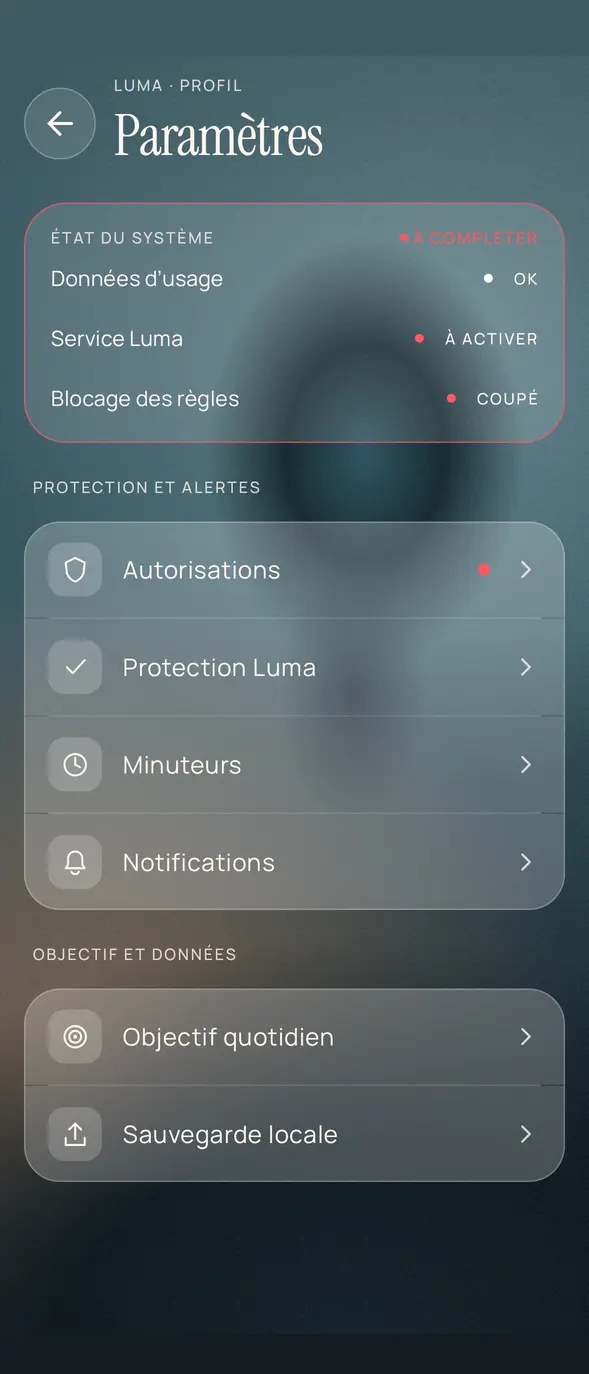
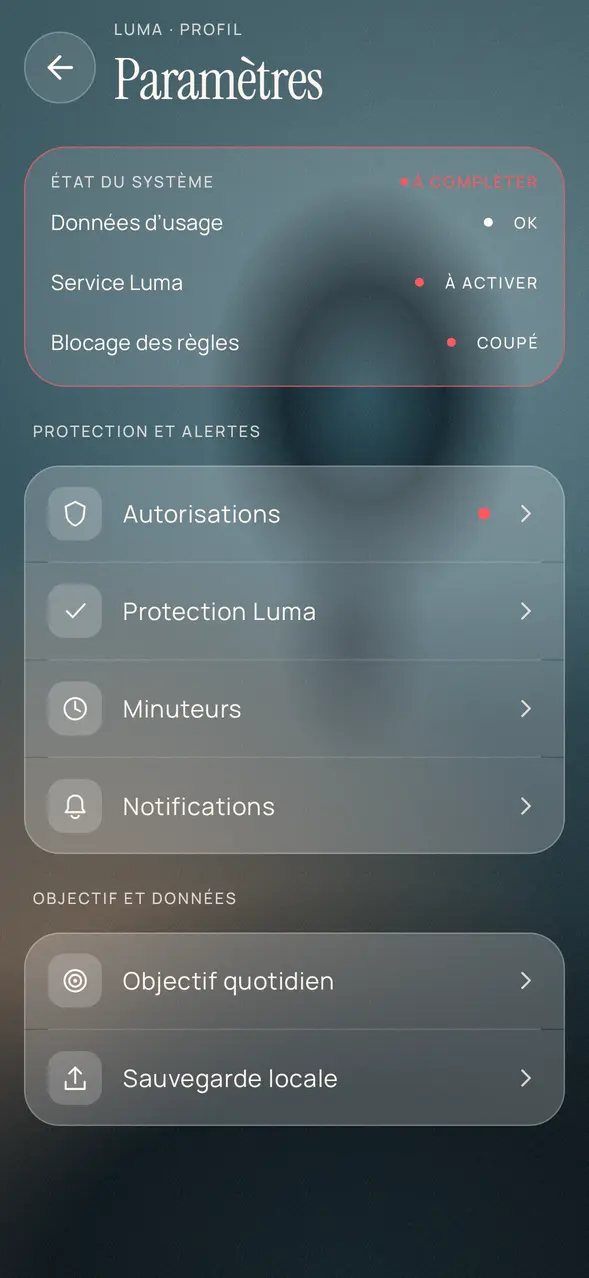
Retirer les bandes des captures et réduire l'arrondi de l'écran
Les coins de l'écran sont moins arrondis, ce qui laisse la date en haut
lisible sans ajouter de marge visible.

Claude-Session: https://claude.ai/code/session_01YMWM2Fj2J3vZqu72BWU4Gv

diff --git a/index.html b/index.html
@@ -56,7 +56,7 @@
             <path class="arc" d="M300 30 A270 270 0 1 1 30 300"/>
             <g class="spin"><circle class="dot" cx="300" cy="30" r="6"/></g>
           </svg>
-          <div class="phone"><img src="assets/img/aura-accueil-fr.webp" alt="Accueil de Luma en style Aura : 1 h 42 de temps d’écran aujourd’hui, 1 h 18 encore disponibles" width="589" height="1374" fetchpriority="high"></div>
+          <div class="phone"><img src="assets/img/aura-accueil-fr.webp" alt="Accueil de Luma en style Aura : 1 h 42 de temps d’écran aujourd’hui, 1 h 18 encore disponibles" width="589" height="1278" fetchpriority="high"></div>
           <div class="float glass f1" aria-hidden="true"><span class="label">Objectif</span><b>3 h par jour</b></div>
           <div class="float glass f2" aria-hidden="true"><span class="label">Série</span><b>12 jours</b></div>
           <div class="float glass f3" aria-hidden="true"><span class="label">Instagram</span><b>En pause · 9 s</b></div>
@@ -87,9 +87,9 @@
           </ol>
           <div class="sticky-phone">
             <div class="phone stack">
-              <img class="on" src="assets/img/accueil-aura-barre.webp" alt="Accueil : le temps restant sur l’objectif du jour" width="589" height="1374" loading="lazy">
-              <img src="assets/img/pause-friction-aura.webp" alt="Page de pause avec un compte à rebours de 9 secondes" width="589" height="1374" loading="lazy">
-              <img src="assets/img/pause-blocage-aura.webp" alt="Page de blocage : Instagram est en pause" width="589" height="1374" loading="lazy">
+              <img class="on" src="assets/img/accueil-aura-barre.webp" alt="Accueil : le temps restant sur l’objectif du jour" width="589" height="1278" loading="lazy">
+              <img src="assets/img/pause-friction-aura.webp" alt="Page de pause avec un compte à rebours de 9 secondes" width="589" height="1278" loading="lazy">
+              <img src="assets/img/pause-blocage-aura.webp" alt="Page de blocage : Instagram est en pause" width="589" height="1278" loading="lazy">
             </div>
           </div>
         </div>
@@ -118,7 +118,7 @@
           <p class="note">Le téléphone, les messages, l’appareil photo et les alarmes ne sont jamais bloqués.</p>
         </div>
         <div class="reveal">
-          <div class="phone"><img src="assets/img/aura-regles-fr.webp" alt="Liste des règles en style Aura : Soirée sans réseaux, de 20:00 à 23:00, avec sa frise de 24 heures" width="589" height="1374" loading="lazy"></div>
+          <div class="phone"><img src="assets/img/aura-regles-fr.webp" alt="Liste des règles en style Aura : Soirée sans réseaux, de 20:00 à 23:00, avec sa frise de 24 heures" width="589" height="1278" loading="lazy"></div>
         </div>
       </div>
     </section>
@@ -132,17 +132,17 @@
       </div>
       <div class="marquee" aria-label="Captures de l’application">
         <div class="marquee-track">
-          <div class="phone"><img src="assets/img/accueil-aura-barre.webp" alt="Accueil" width="589" height="1374" loading="lazy"></div>
-          <div class="phone"><img src="assets/img/aura-profil-fr.webp" alt="Profil" width="589" height="1374" loading="lazy"></div>
-          <div class="phone"><img src="assets/img/aura-personnaliser-fr.webp" alt="Personnaliser l’accueil" width="589" height="1374" loading="lazy"></div>
-          <div class="phone"><img src="assets/img/aura-parametres-fr.webp" alt="Paramètres" width="589" height="1374" loading="lazy"></div>
-          <div class="phone"><img src="assets/img/aura-apparence-fr.webp" alt="Apparence" width="589" height="1374" loading="lazy"></div>
+          <div class="phone"><img src="assets/img/accueil-aura-barre.webp" alt="Accueil" width="589" height="1278" loading="lazy"></div>
+          <div class="phone"><img src="assets/img/aura-profil-fr.webp" alt="Profil" width="589" height="1278" loading="lazy"></div>
+          <div class="phone"><img src="assets/img/aura-personnaliser-fr.webp" alt="Personnaliser l’accueil" width="589" height="1278" loading="lazy"></div>
+          <div class="phone"><img src="assets/img/aura-parametres-fr.webp" alt="Paramètres" width="589" height="1278" loading="lazy"></div>
+          <div class="phone"><img src="assets/img/aura-apparence-fr.webp" alt="Apparence" width="589" height="1278" loading="lazy"></div>
           <!-- Copie pour une boucle continue -->
-          <div class="phone" aria-hidden="true"><img src="assets/img/accueil-aura-barre.webp" alt="" width="589" height="1374" loading="lazy"></div>
-          <div class="phone" aria-hidden="true"><img src="assets/img/aura-profil-fr.webp" alt="" width="589" height="1374" loading="lazy"></div>
-          <div class="phone" aria-hidden="true"><img src="assets/img/aura-personnaliser-fr.webp" alt="" width="589" height="1374" loading="lazy"></div>
-          <div class="phone" aria-hidden="true"><img src="assets/img/aura-parametres-fr.webp" alt="" width="589" height="1374" loading="lazy"></div>
-          <div class="phone" aria-hidden="true"><img src="assets/img/aura-apparence-fr.webp" alt="" width="589" height="1374" loading="lazy"></div>
+          <div class="phone" aria-hidden="true"><img src="assets/img/accueil-aura-barre.webp" alt="" width="589" height="1278" loading="lazy"></div>
+          <div class="phone" aria-hidden="true"><img src="assets/img/aura-profil-fr.webp" alt="" width="589" height="1278" loading="lazy"></div>
+          <div class="phone" aria-hidden="true"><img src="assets/img/aura-personnaliser-fr.webp" alt="" width="589" height="1278" loading="lazy"></div>
+          <div class="phone" aria-hidden="true"><img src="assets/img/aura-parametres-fr.webp" alt="" width="589" height="1278" loading="lazy"></div>
+          <div class="phone" aria-hidden="true"><img src="assets/img/aura-apparence-fr.webp" alt="" width="589" height="1278" loading="lazy"></div>
         </div>
       </div>
     </section>

diff --git a/assets/css/style.css b/assets/css/style.css
@@ -158,13 +158,13 @@ p { margin: 0; }
 @keyframes spin { to { transform: rotate(360deg); } }
 
 .phone {
-  position: relative; width: min(280px, 62vw); aspect-ratio: 589 / 1374;
-  border-radius: 46px; padding: 9px;
+  position: relative; width: min(280px, 62vw); aspect-ratio: 589 / 1278;
+  border-radius: 30px; padding: 9px;
   background: rgba(255, 246, 239, .08); border: 1px solid var(--glass-line);
   backdrop-filter: blur(20px); -webkit-backdrop-filter: blur(20px);
   box-shadow: 0 50px 120px -40px rgba(0, 0, 0, .7);
 }
-.phone img { width: 100%; height: 100%; object-fit: cover; border-radius: 38px; }
+.phone img { width: 100%; height: 100%; object-fit: cover; border-radius: 22px; }
 
 .scroll-hint { margin-top: 64px; display: inline-flex; flex-direction: column; align-items: center; gap: 12px; text-decoration: none; }
 .scroll-hint i { width: 1px; height: 56px; background: linear-gradient(var(--ink-faint), transparent); animation: hint 2.4s ease-in-out infinite; transform-origin: top; }
@@ -227,8 +227,8 @@ section { scroll-margin-top: 100px; }
 .marquee { overflow: hidden; mask-image: linear-gradient(90deg, transparent, #000 12%, #000 88%, transparent); -webkit-mask-image: linear-gradient(90deg, transparent, #000 12%, #000 88%, transparent); }
 .marquee-track { display: flex; gap: 32px; width: max-content; animation: marquee 60s linear infinite; padding: 10px 0 40px; }
 .marquee:hover .marquee-track { animation-play-state: paused; }
-.marquee .phone { width: 230px; flex: none; border-radius: 38px; padding: 7px; }
-.marquee .phone img { border-radius: 31px; }
+.marquee .phone { width: 230px; flex: none; border-radius: 26px; padding: 7px; }
+.marquee .phone img { border-radius: 20px; }
 .marquee .phone:nth-child(even) { transform: translateY(40px); }
 @keyframes marquee { to { transform: translateX(calc(-50% - 16px)); } }
 
@@ -349,3 +349,4 @@ h1 .sans { font-family: var(--sans); font-weight: 500; font-size: .8em; letter-s
   border-top: 1px solid var(--glass-line);
 }
 .site-footer > .wrap:first-child { padding-top: 48px; border-top: 1px solid var(--glass-line); }
+.phone.stack img { border-radius: 22px; }
